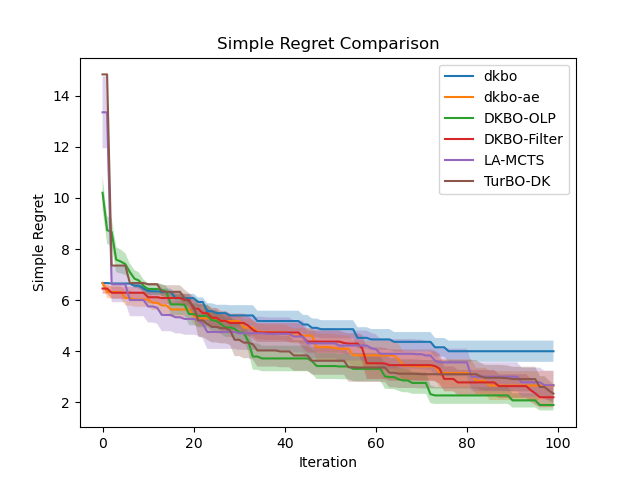
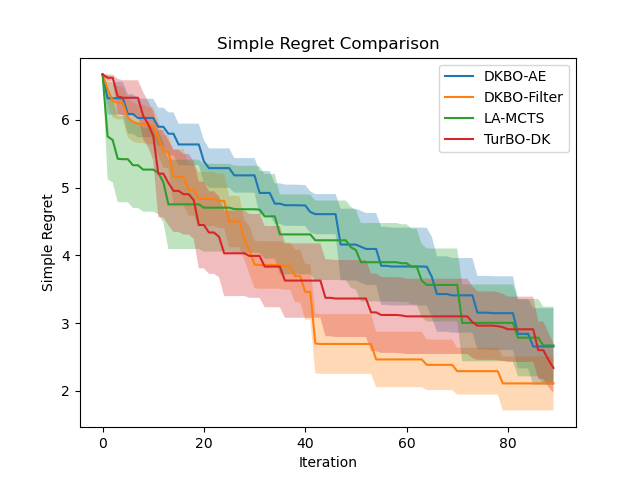
add turboM(non-dk) and fix filtering logics

diff --git a/test_turboM.py b/test_turboM.py
@@ -1,0 +1,183 @@
+from email import iterators
+import gpytorch
+import os
+import random
+import torch
+import time
+import matplotlib
+import math
+import warnings
+import numpy as np
+import matplotlib.pyplot as plt
+import matplotlib as mpl
+import datetime
+import itertools
+import argparse
+
+from tqdm import tqdm
+from sparsemax import Sparsemax
+from scipy.stats import ttest_ind
+from sklearn.cluster import MiniBatchKMeans, KMeans
+from sklearn.metrics.pairwise import pairwise_distances_argmin
+from sklearn.model_selection import train_test_split
+from sklearn.linear_model import LinearRegression
+from sklearn.kernel_ridge import KernelRidge
+from sklearn.metrics import mean_absolute_error
+from sklearn.preprocessing import StandardScaler, RobustScaler
+from sklearn.cluster import KMeans
+from sklearn.decomposition import PCA
+from sklearn.manifold import TSNE
+from sklearn.neighbors import NearestNeighbors
+
+from src.models import AE
+from src.utils import save_res, _path, _random_seed_gen, Data_Factory
+from src.turbo import TurboM       
+
+if __name__ == "__main__":
+    # parse the cli
+    cli_parser = argparse.ArgumentParser(description="configuration of mf test")
+    cli_parser.add_argument("--name", nargs='?', default="test", type=str, help="name of experiment",)
+    cli_parser.add_argument("--aedir", nargs='?', default="none", type=str, help="directory of the pretrained Autoencoder",)
+    cli_parser.add_argument("--subdir", nargs='?', default="./res", type=str, help="directory to store the scripts and results",)
+    cli_parser.add_argument("--datadir", nargs='?', default="./data", type=str, help="directory of the test datasets")
+    cli_parser.add_argument("-v",  action="store_true", default=False, help="flag of if verbose")
+    cli_parser.add_argument("-p",  action="store_true", default=False, help="flag of if plotting result")
+    cli_parser.add_argument("-s",  action="store_true", default=False, help="flag of if storing result")
+    cli_parser.add_argument("-n", action="store_true", default=False, help="flag of if negate the obj value to maximize")
+    cli_parser.add_argument("-f",  action="store_true", default=False, help="flag of if using fixed seed")
+
+    cli_parser.add_argument("--init_num", nargs='?', default=10, type=int, help="number of initial random points")
+    cli_parser.add_argument("--run_times", nargs='?', default=5, type=int, help="run times of the tests")
+    cli_parser.add_argument("--opt_horizon", nargs='?', default=40, type=int, help="horizon of the optimization")
+    cli_parser.add_argument("--n_trust_region", nargs='?', default=5, type=int, help="number of trust regions")
+    cli_parser.add_argument("--solver", nargs='?', default='dkbo', type=str, help="solver type: dkbo,bo, turbo")
+    # cli_parser.add_argument("--learning_rate", nargs='?', default=2, type=int, help="rank of the learning rate")
+    cli_parser.add_argument("-a",  action="store_true", default=False, help="flag of if retrain AE")
+    
+    
+    cli_args = cli_parser.parse_args()
+    ### load dataset
+    assert not (cli_args.datadir is None)
+    if cli_args.datadir.endswith(".pt"):
+        dataset = torch.load(cli_args.datadir).numpy()  # want to find the maximal
+    elif cli_args.datadir.endswith(".npy"):
+        dataset = np.load(cli_args.datadir)
+    # ub = dataset.max(axis=0)
+    # lb = dataset.min(axis=0)
+
+    # dataset = dataset[:, ub>lb]
+    data_dim = dataset.shape[1]-1
+    # original Objective
+    ROBUST = True
+    ScalerClass = RobustScaler if ROBUST else StandardScaler
+    scaler = ScalerClass().fit(dataset[:,:-1])                   # obj foldx -> rosetta
+    scaled_f_data = scaler.transform(dataset[:,:-1])
+    scaled_input = scaled_f_data
+    output = dataset[:,-1]
+    shuffle_filter = np.random.choice(scaled_f_data.shape[0], scaled_f_data.shape[0], replace=False)
+    train_output = -1 * output.reshape([-1,1]) if cli_args.n else output.reshape([-1,1])
+
+    # dkbo parameters
+    verbose = cli_args.v
+    fix_seed = cli_args.f
+    # lr_rank = -cli_args.learning_rate
+    # learning_rate = 10 ** lr_rank
+    pretrained = not (cli_args.aedir == 'none')
+
+    # pretrain AE
+    if pretrained and cli_args.a:
+        ae = AE(torch.from_numpy(scaled_input), lr=1e-3)
+        ae.train_ae(epochs=100, batch_size=200, verbose=True)
+        torch.save(ae.state_dict(), cli_args.aedir)
+        if cli_args.v:
+            print(f"pretrained ae stored in {cli_args.aedir}")
+    elif pretrained:
+        assert not (cli_args.aedir is None)
+        ae = AE(torch.from_numpy(scaled_input), lr=1e-3)
+        ae.load_state_dict(torch.load(cli_args.aedir, map_location="cpu"))
+    else:
+        ae = None
+
+    # LAMCTS experiment
+    verbose = cli_args.v
+    dataset = np.hstack([scaled_input, output[:,np.newaxis]])
+    approximate = lambda x: Data_Factory.nearest(dataset, x)
+
+    def approx_obj_func(multi_rows):
+        row_num = multi_rows.shape[0]
+        assert row_num > 1
+        res = np.array([approximate(multi_rows[i])[0][-1] for i in range(row_num)])
+        return res
+
+    def obj_func_simple(config):
+        _, index = Data_Factory.nearest(dataset, config)
+        return dataset[index, -1]
+
+    def obj_func_simple_neg(config):
+        _, index = Data_Factory.nearest(dataset, config)
+        return -dataset[index, -1]
+
+
+    lb = scaled_input.min(axis=0) - 1e-10
+    ub = scaled_input.max(axis=0)
+    optima = dataset[:,-1].max()
+    kernel_type = 'rbf'
+    gamma_type = "auto"
+    # solver_type = 'bo'   # turbo not available
+    # solver_type = 'dkbo'
+    solver_type = cli_args.solver
+    obj_func_simple.lb = lb
+    obj_func_simple.ub = ub
+
+    name = cli_args.name
+    save_path = cli_args.subdir
+    n_repeat = cli_args.run_times
+    n_iter = cli_args.opt_horizon
+    # init_x = dataset[:cli_args.init_num,:-1]
+    # init_y = approx_obj_func(init_x)
+    # print(f"init max {init_y.max()} {dataset[:cli_args.init_num,-1].max()} global maximum {dataset[:,-1].max()}")
+    reg_record = np.zeros([n_repeat, n_iter])
+    with warnings.catch_warnings():
+        warnings.simplefilter("ignore")
+        for idx in tqdm(range(n_repeat)):
+            # print(f"Round {idx}")
+            if cli_args.f:
+                # print(n_init+n_repeat*n_iter)
+                # _seed = rep*n_iter + n_init
+                _seed = _random_seed_gen()[idx]
+                torch.manual_seed(_seed)
+                np.random.seed(_seed)
+                random.seed(_seed)
+                torch.cuda.manual_seed(_seed)
+                torch.backends.cudnn.benchmark = False
+                torch.backends.cudnn.deterministic = True
+
+
+            # minimize the negative function
+            turbo5 = TurboM(f=obj_func_simple_neg, lb=lb, ub=ub, n_init=cli_args.init_num,  verbose=cli_args.v,
+                            max_evals=cli_args.opt_horizon, n_trust_regions=cli_args.n_trust_region)
+            turbo5.optimize()  # Run optimization
+            X, fX = turbo5.X, -turbo5.fX  # Evaluated points
+            reg_record[idx] = np.minimum.accumulate(optima - fX).squeeze()
+
+
+            # t = TuRBO(test_x, test_y, n_init=n_init, verbose=verbose, discrete=discrete, batch_size=batch_size, pretrained_nn=ae)
+            # t.opt(n_iter,)
+            # reg_record[idx] = t.regret.squeeze()
+
+    if cli_args.p:
+        plt.plot(reg_record.mean(axis=0))
+
+
+    if cli_args.s:
+        np.save(f"{save_path}/turbo-{cli_args.n_trust_region}-{name}-R{n_repeat}-T{n_iter}.npy", reg_record)
+
+    if cli_args.p:
+        plt.plot(reg_record.mean(axis=0))
+        plt.ylabel("regret")
+        plt.xlabel("Iteration")
+        plt.title(f'simple regret for {name}')
+        _path = f"{save_path}/turbo-{cli_args.n_trust_region}-{name}-R{n_repeat}-T{n_iter}"
+        plt.savefig(f"{_path}.png")
+
+

diff --git a/src/opt/optimization.py b/src/opt/optimization.py
@@ -192,9 +192,7 @@ def ol_filter_dkbo(x_tensor, y_tensor, n_init=10, n_repeat=2, train_times=10, be
             _dkl.model.eval()
             with torch.no_grad(), gpytorch.settings.fast_pred_var():
                 _observed_pred = _dkl.likelihood(_dkl.model(x_tensor.to(DEVICE)))
-                lcb, ucb = _observed_pred.confidence_region()
-            # print(f"pretrained {pretrained} ae {type(ae)}  n_iter {train_times}")
-            
+                lcb, ucb = _observed_pred.confidence_region()         
 
             # each test instance
             for iter in range(0, n_iter, filter_interval):
@@ -207,63 +205,47 @@ def ol_filter_dkbo(x_tensor, y_tensor, n_init=10, n_repeat=2, train_times=10, be
                     _, indices = torch.topk(ucb, min(_minimum_pick, data_size))
                     for idx in indices:
                         ucb_filter[idx] = 1
-
                 observed_unfiltered = np.min([observed, ucb_filter.numpy()], axis=0)      # observed and not filtered outs
-                # observed_unfiltered[:n_init]=0
-                # print(f"observed unfiltered {observed_unfiltered.sum()}/data_size {data_size} unfiltered {ucb_filter.sum()} observed {observed.sum()}")
-                # print(f"beginning init_y range {init_y.min(), init_y.max()}")
                 init_x = torch.cat([init_x, x_tensor[observed_unfiltered==1]])
                 init_y = torch.cat([init_y, y_tensor[observed_unfiltered==1]])
-                # print(f"init_y range {init_y.min(), init_y.max()}")
-                # print(f"observed unfiltered range {y_tensor[observed_unfiltered==1].min(), y_tensor[observed_unfiltered==1].max()}")
-                # print(f"unfiltered range {y_tensor[ucb_filter==1].min(), y_tensor[ucb_filter==1].max()} / truemax {max_val}")
-                # print(f"unfiltered range -2 {y_tensor[util_array[ucb_filter==1]].min(), y_tensor[util_array[ucb_filter==1]].max()} / truemax {max_val}")
-                # print(f"observed range {y_tensor[observed==1].min(), y_tensor[observed==1].max()}")
-                # print(f"verify ucb {ucb[ucb_filter==1].min(), ucb[ucb_filter==1].max()} > lcb {lcb[observed==1].max()}")
+
+                if study_partition:
+                    _path = f"{save_path}/Filter-{name}-{acq}-R{n_repeat}-P{1}-T{n_iter}_I{filter_interval}_L{int(-np.log10(lr))}-TI{train_times}"
+                    fig = plt.figure()
+                    plt.scatter(y_tensor, ucb, c=ucb_filter, s=2, label="$\hat{X}$")
+                    plt.scatter(y_tensor[observed==1], ucb[observed==1], color='r', marker="*", s=5, label="Obs")
+                    plt.scatter(y_tensor[observed_unfiltered==1], ucb[observed_unfiltered==1], color='g', marker="+", s=25, label="unfiltered_Obs")
+                    plt.xlabel("Label")
+                    plt.ylabel("UCB")
+                    plt.colorbar()
+                    plt.legend()
+                    plt.title(f"{name} Iter {iter}")
+                    plt.savefig(f"{_path}-Iter{iter}.png")
+                    print(f"Fig stored to {_path}")
+
+
                 
                 sim_dkbo = DK_BO_AE(x_tensor[ucb_filter], y_tensor[ucb_filter], lr=lr,
                                     n_init=n_init,  train_iter=train_times, regularize=False, dynamic_weight=False, 
                                     max=max_val, pretrained_nn=ae, verbose=verbose, init_x=init_x, init_y=init_y)
                 query_num = min(filter_interval, n_iter-iter)
-                sim_dkbo.query(n_iter=query_num, acq=acq, study_ucb=STUDY_PARTITION, study_interval=10, study_res_path=save_path)
+                sim_dkbo.query(n_iter=query_num, acq=acq, study_ucb=False, study_interval=10, study_res_path=save_path)
                 # update records
                 _step_size = min(iter+filter_interval, n_iter)
                 reg_record[rep, iter:_step_size] = sim_dkbo.regret[-_step_size:]
                 ucb_filtered_idx = util_array[ucb_filter]
-                # print(f"UCB filter size {sum(ucb_filter)}")
-                # print(sim_dkbo.observed.sum(), np.sum(sim_dkbo.observed==1))
-                # print(ucb_filtered_idx[sim_dkbo.observed== 1].shape)
                 observed[ucb_filtered_idx[sim_dkbo.observed==1]] = 1
-                # print(f"{sim_dkbo.observed.shape} {observed.shape} {ucb_filtered_idx.shape} {y_tensor.size()}")
-                # print(f"post-opt observed range {y_tensor[observed].min(), y_tensor[observed].max()}")
-                # print(f"post-opt observed range {y_tensor[observed==1].min(), y_tensor[observed==1].max()}")
-                # print(f"post-opt observed range {y_tensor[ucb_filtered_idx][sim_dkbo.observed].min(), y_tensor[ucb_filtered_idx][sim_dkbo.observed].max()}")
-                # print(f"post-opt observed range {y_tensor[ucb_filtered_idx][sim_dkbo.observed==1].min(), y_tensor[ucb_filtered_idx][sim_dkbo.observed==1].max()}")
-                # print(f"post-opt observed range {y_tensor[ucb_filtered_idx[sim_dkbo.observed==1]].min(), y_tensor[ucb_filtered_idx[sim_dkbo.observed==1]].max()}")
-                # print(f"post-opt observed range {y_tensor[ucb_filter][sim_dkbo.observed].min(), y_tensor[ucb_filter][sim_dkbo.observed].max()}")
-                # _debug = y_tensor[ucb_filtered_idx] - y_tensor[ucb_filter]
-                # print(f"debug {_debug.sum()} {_debug} {np.sum(sim_dkbo.observed==1 - sim_dkbo.observed)}")
+
                 # update ucb for filtering
-                _dkl = DKL(x_tensor[ucb_filter], y_tensor[ucb_filter].squeeze() if sum(ucb_filter) > 1 else y_tensor[ucb_filter],  
+                _dkl = DKL(x_tensor[observed==1], y_tensor[observed==1].squeeze() if sum(ucb_filter) > 1 else y_tensor[ucb_filter],  
                             n_iter=10, low_dim=True)
+                # _dkl = DKL(x_tensor[ucb_filter], y_tensor[ucb_filter].squeeze() if sum(ucb_filter) > 1 else y_tensor[ucb_filter],  
+                            # n_iter=10, low_dim=True)
                 _dkl.train_model()
                 _dkl.model.eval()
                 with torch.no_grad(), gpytorch.settings.fast_pred_var():
                     _observed_pred = _dkl.likelihood(_dkl.model(x_tensor))
                     lcb, ucb = _observed_pred.confidence_region()
-
-                if study_partition:
-                    _path = f"{save_path}/Filter-{name}-{acq}-R{n_repeat}-P{1}-T{n_iter}_I{filter_interval}_L{int(-np.log10(lr))}-TI{train_times}"
-                    # _file_path = _path(save_path=save_path, name=name, init_strategy=init_strategy, n_repeat=n_repeat, n_iter=n_iter, num_GP=num_GP, cluster_interval=cluster_interval,  acq=acq, train_iter=train_times)
-                    fig = plt.figure()
-                    plt.scatter(y_tensor, ucb, c=ucb_filter, s=2)
-                    plt.scatter(y_tensor[observed==1], ucb[observed==1], color='r', marker="*", s=5)
-                    plt.xlabel("Label")
-                    plt.ylabel("UCB")
-                    plt.colorbar()
-                    plt.title(f"{name} Iter {iter}")
-                    plt.savefig(f"{_path}-Iter{iter}.png")
-                    print(f"Fig stored to {_path}")
 
     for rep in range(n_repeat):
         reg_record[rep] = np.minimum.accumulate(reg_record[rep])
